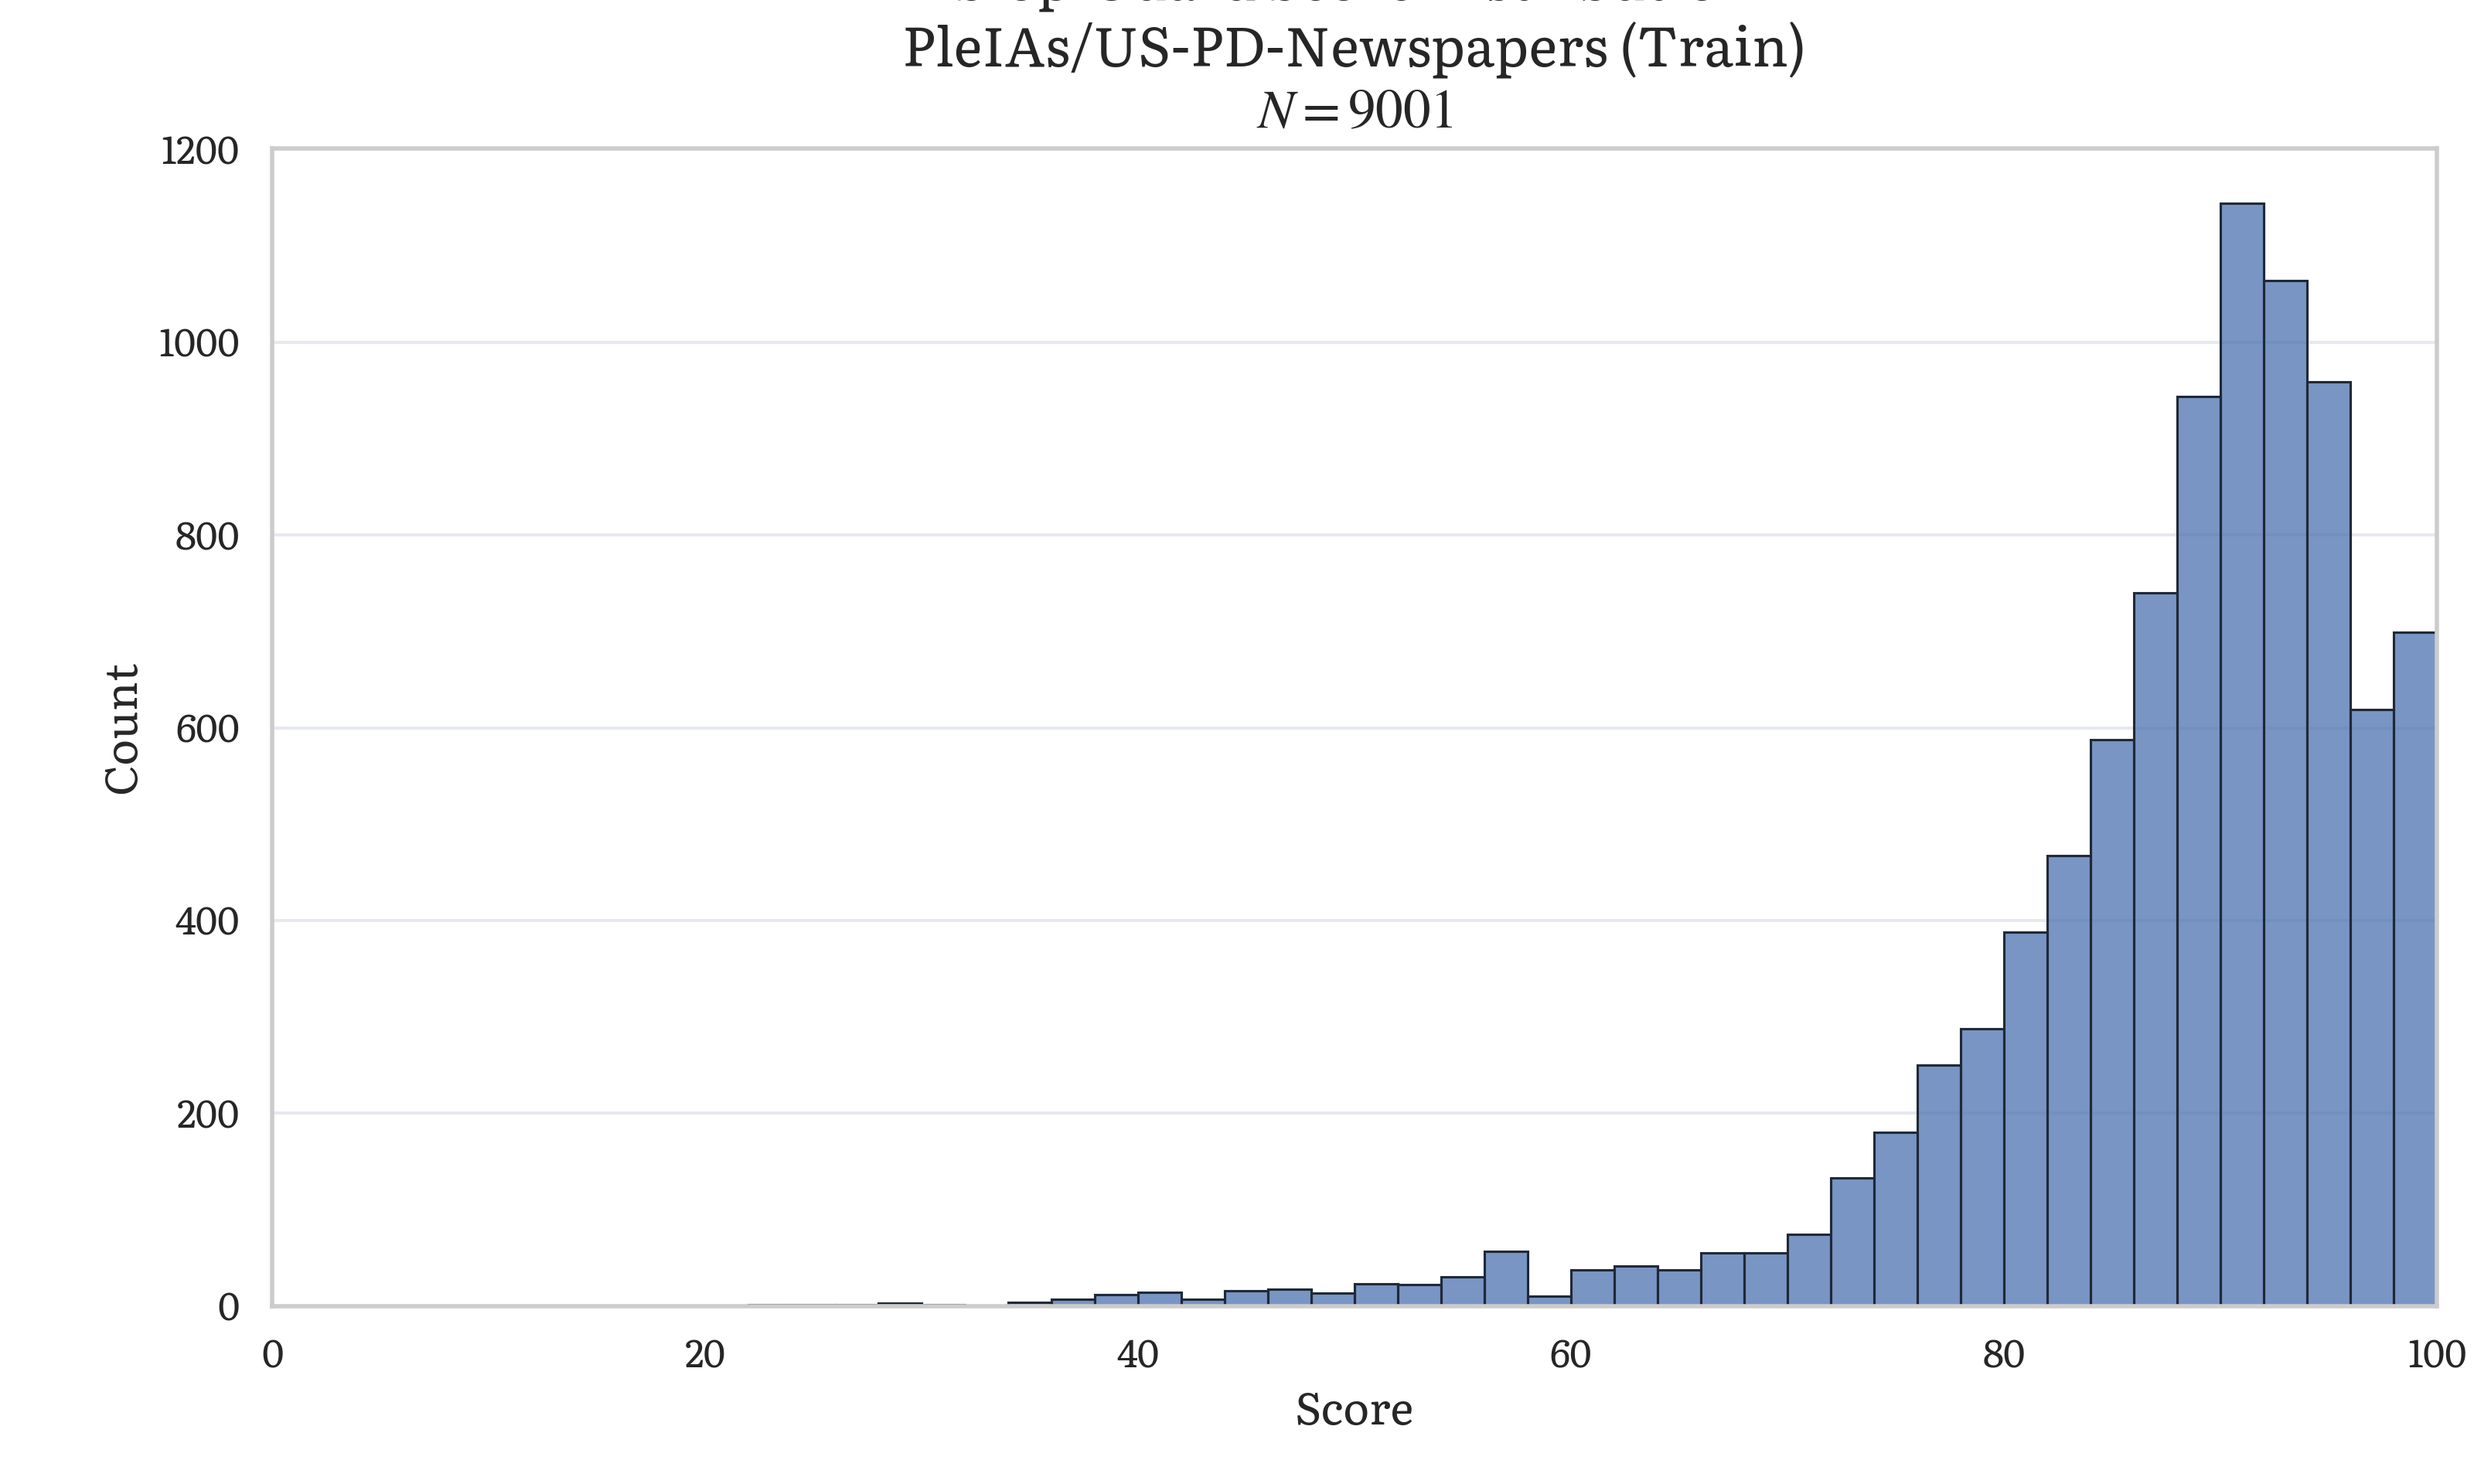
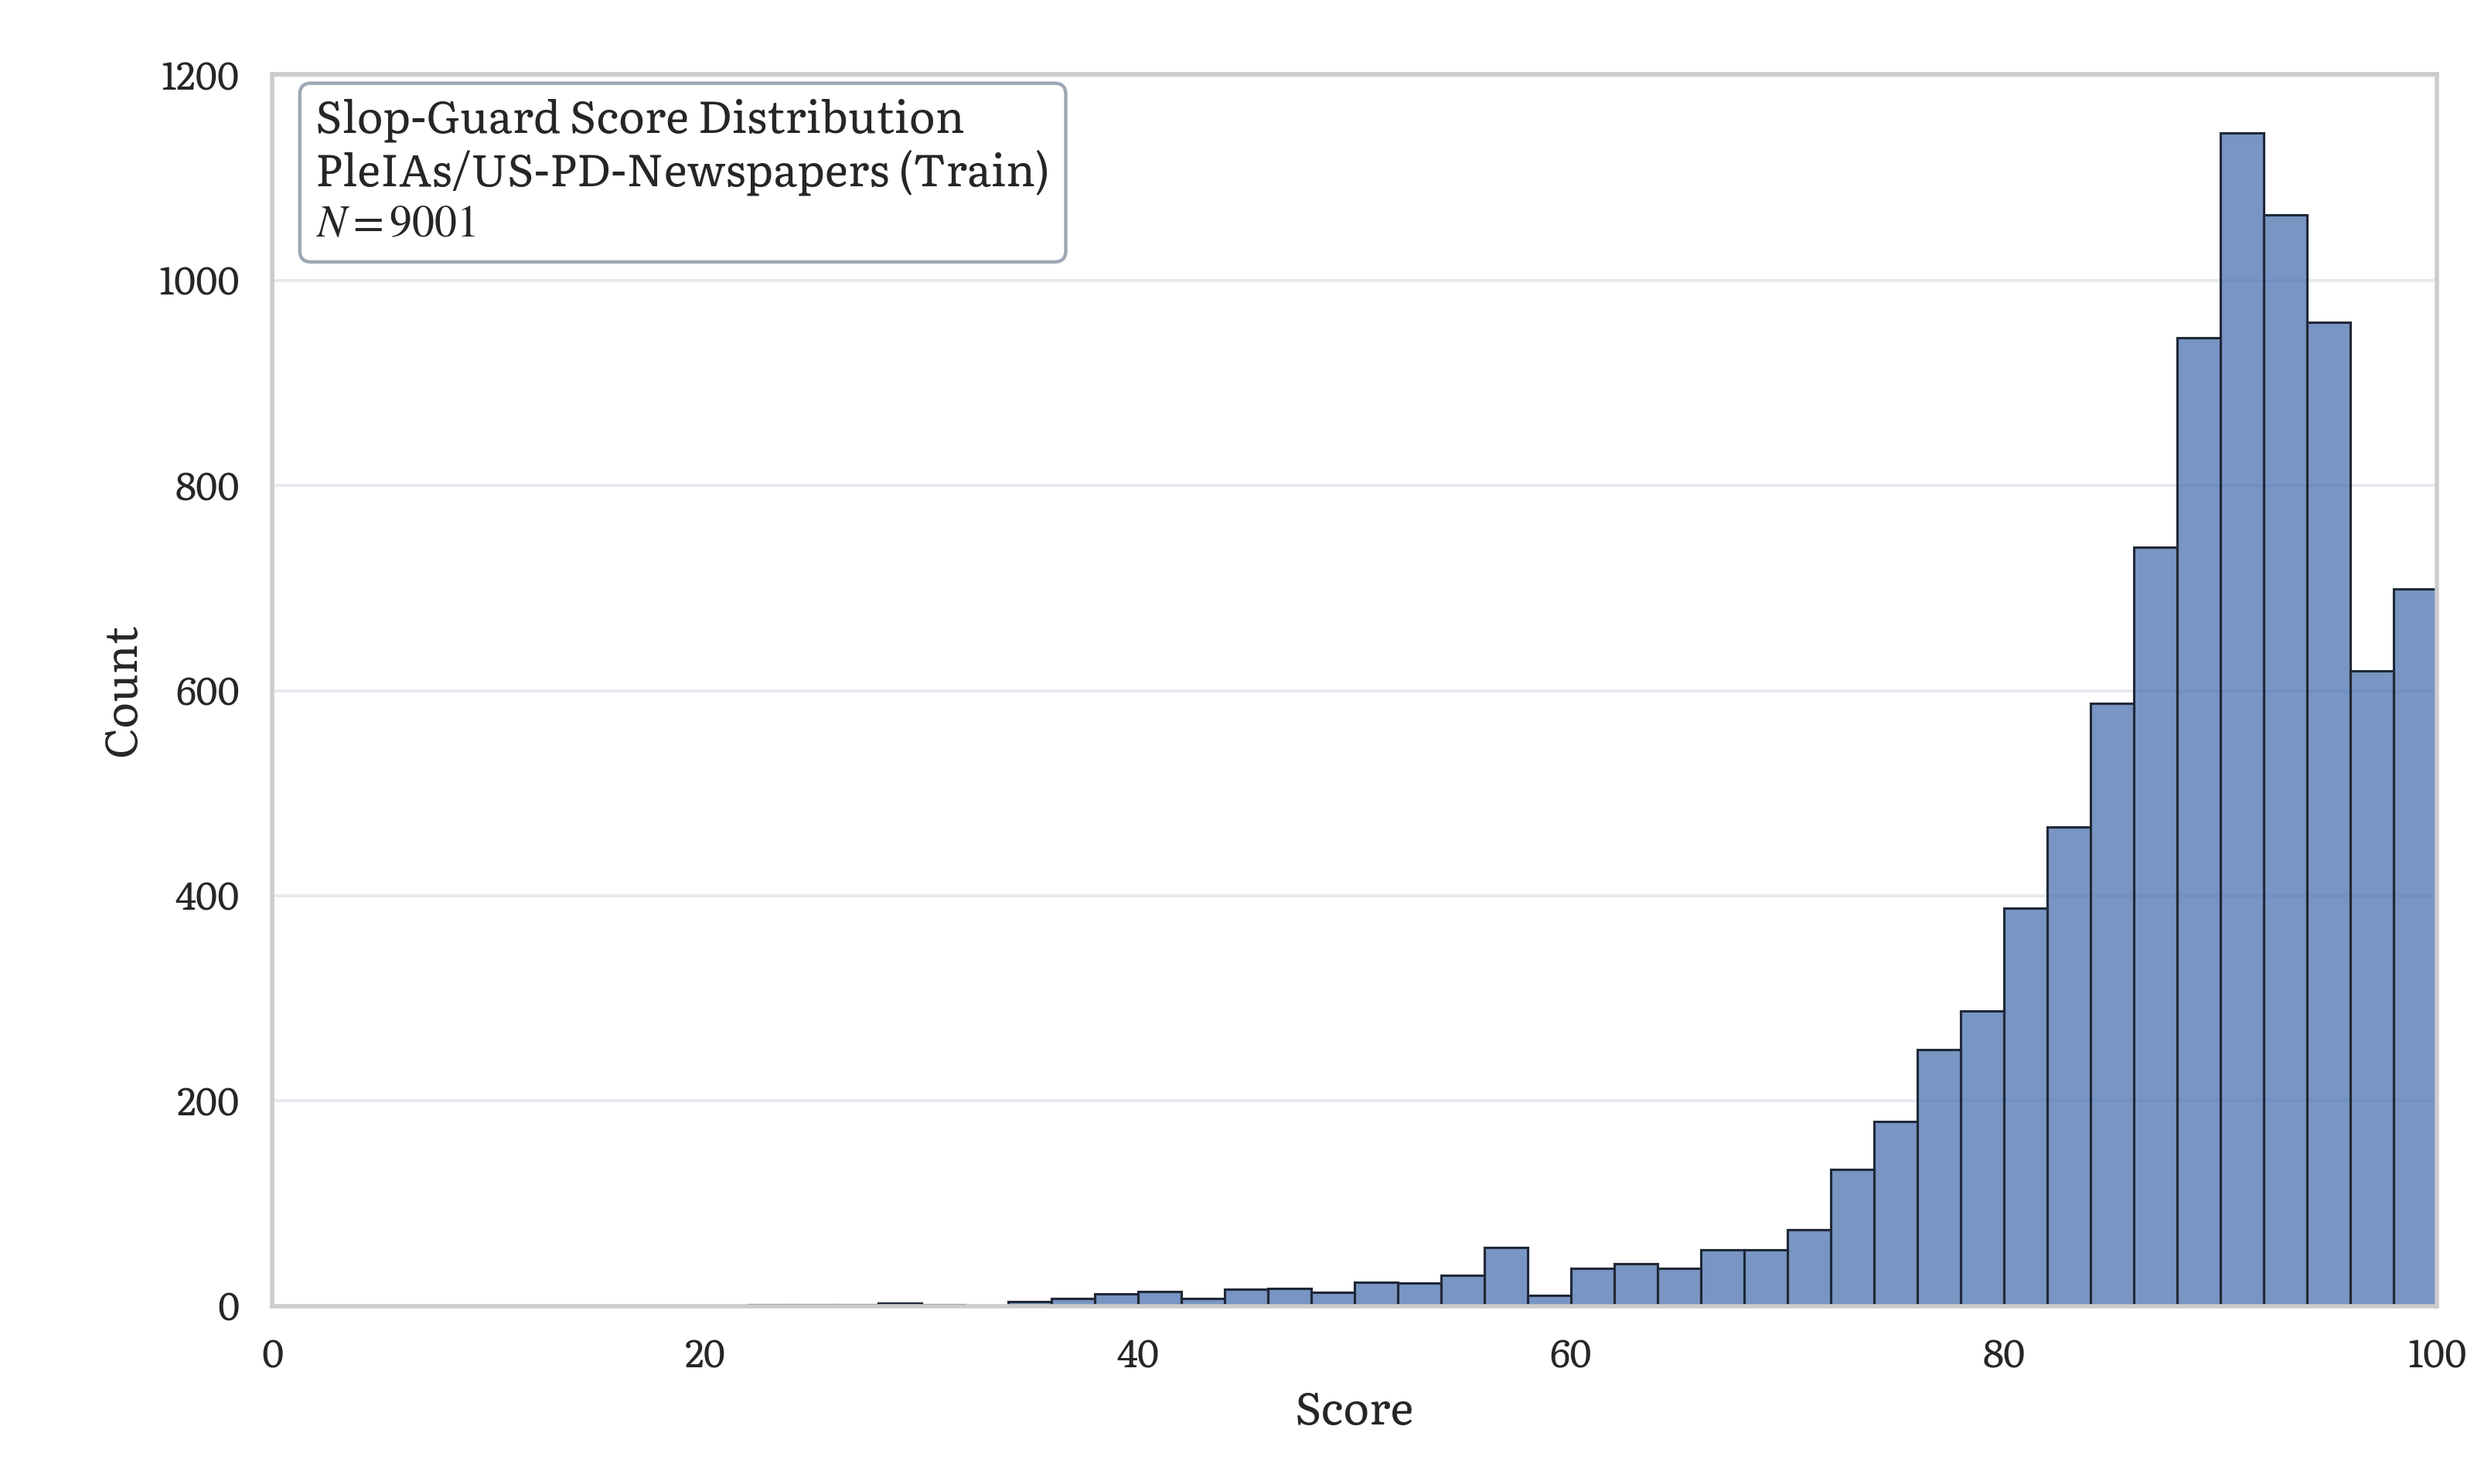
style(benchmark): move title into boxed top-left chart annotation

diff --git a/benchmark/us_pd_newspapers_histogram.py b/benchmark/us_pd_newspapers_histogram.py
@@ -310,11 +310,28 @@ def plot_histogram_from_bins(
     ax.set_xlim(bin_edges[0], bin_edges[-1])
     ax.set_xlabel("Score")
     ax.set_ylabel("Count")
-    ax.set_title(title)
+    ax.text(
+        0.02,
+        0.98,
+        title,
+        transform=ax.transAxes,
+        ha="left",
+        va="top",
+        multialignment="left",
+        fontsize=13,
+        bbox={
+            "boxstyle": "round,pad=0.35,rounding_size=0.25",
+            "facecolor": "white",
+            "edgecolor": "#9AA4B2",
+            "linewidth": 1.0,
+            "alpha": 0.96,
+        },
+        zorder=5,
+    )
 
     ax.grid(axis="y", color="#E6E9EF", linewidth=0.9)
     ax.grid(axis="x", visible=False)
-    fig.subplots_adjust(left=0.11, right=0.985, bottom=0.12, top=0.90)
+    fig.subplots_adjust(left=0.11, right=0.985, bottom=0.12, top=0.95)
     transparent_png, white_png = save_histogram_png_variants(fig, histogram_png)
     plt.close(fig)
     return transparent_png, white_png
